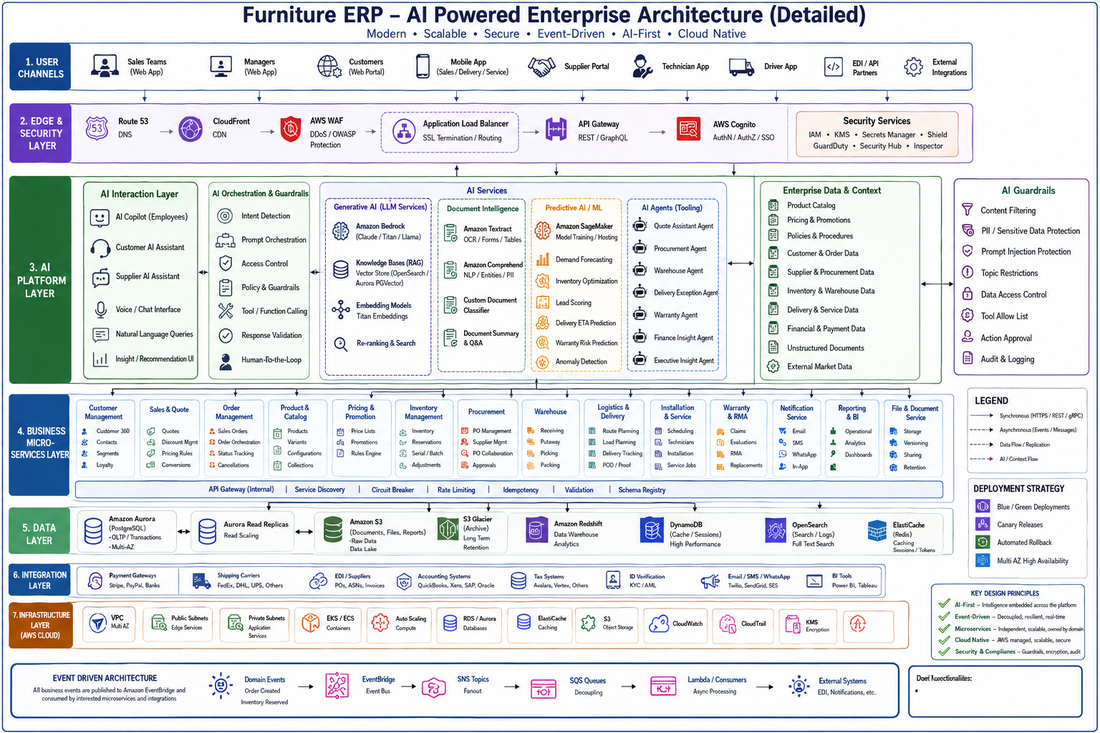
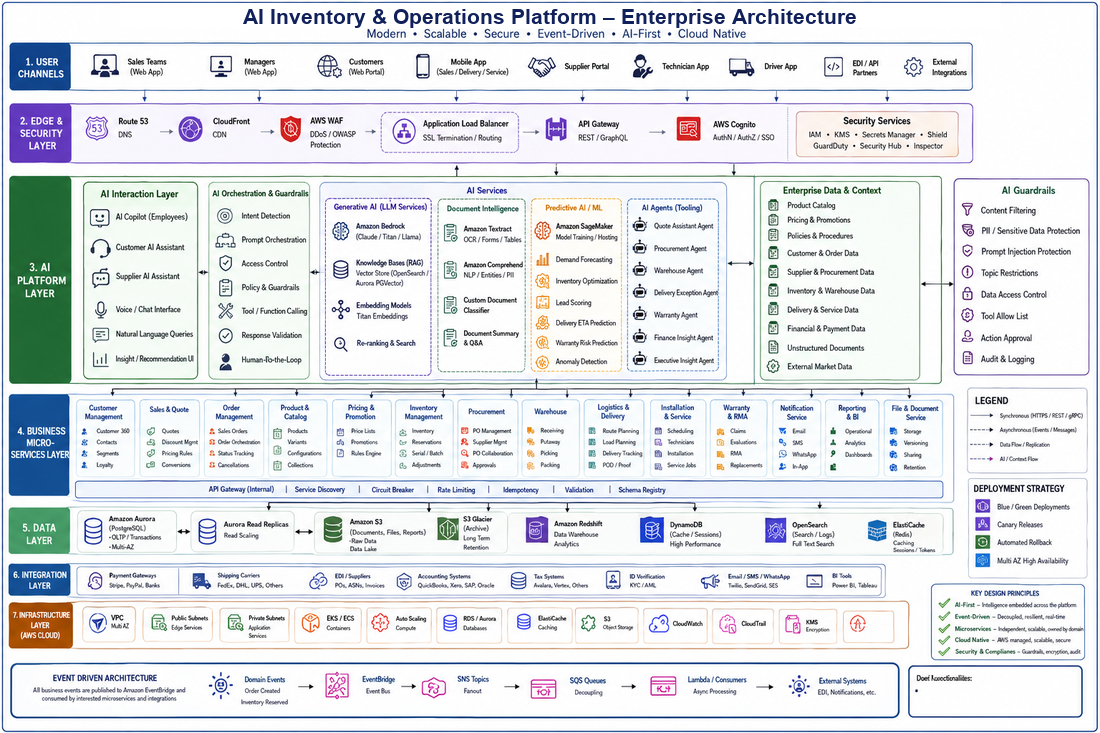
Static retitled architecture diagram with click-to-enlarge lightbox
- Diagram title now reads "AI Inventory & Operations Platform –
  Enterprise Architecture"; animated GIF removed
- Card images open full-size in an accessible dialog (Escape,
  backdrop click, focus restore)
- Protected images add casual-copy deterrents: context menu, drag,
  and selection disabled

Changed region(s): [[0.2164, 0.0, 0.8036, 0.03]]

diff --git a/src/components/ui/ImageLightbox.tsx b/src/components/ui/ImageLightbox.tsx
@@ -1,0 +1,88 @@
+"use client";
+
+import Image from "next/image";
+import { useRef, type MouseEvent } from "react";
+
+type ImageLightboxProps = {
+  src: string;
+  alt: string;
+  width: number;
+  height: number;
+  /**
+   * Deters casual copying: blocks the context menu, dragging, and
+   * selection. This is a deterrent only — nothing rendered in a
+   * browser can be fully protected from capture.
+   */
+  protect?: boolean;
+  thumbnailClassName?: string;
+};
+
+/** Thumbnail button that opens the image full-size in a modal dialog. */
+export function ImageLightbox({
+  src,
+  alt,
+  width,
+  height,
+  protect = false,
+  thumbnailClassName,
+}: ImageLightboxProps) {
+  const dialogRef = useRef<HTMLDialogElement>(null);
+
+  const blockContextMenu = protect
+    ? (event: MouseEvent) => event.preventDefault()
+    : undefined;
+
+  const closeOnBackdropClick = (event: MouseEvent<HTMLDialogElement>) => {
+    if (event.target === dialogRef.current) {
+      dialogRef.current?.close();
+    }
+  };
+
+  return (
+    <>
+      <button
+        type="button"
+        aria-label={`View full size: ${alt}`}
+        title="Click to enlarge"
+        onClick={() => dialogRef.current?.showModal()}
+        onContextMenu={blockContextMenu}
+        className="cursor-zoom-in select-none"
+      >
+        <Image
+          src={src}
+          alt={alt}
+          width={width}
+          height={height}
+          draggable={!protect}
+          className={thumbnailClassName}
+        />
+      </button>
+      <dialog
+        ref={dialogRef}
+        aria-label={alt}
+        onClick={closeOnBackdropClick}
+        onContextMenu={blockContextMenu}
+        className="m-auto max-h-[92vh] max-w-[95vw] rounded-xl bg-transparent p-0 backdrop:bg-black/80"
+      >
+        <div className="relative select-none">
+          <Image
+            src={src}
+            alt={alt}
+            width={width}
+            height={height}
+            draggable={!protect}
+            className="h-auto max-h-[92vh] w-auto rounded-xl"
+          />
+          <button
+            type="button"
+            aria-label="Close full-size view"
+            onClick={() => dialogRef.current?.close()}
+            className="absolute top-3 right-3 rounded-full bg-neutral-900/80 px-3 py-1 text-sm font-medium text-white hover:bg-neutral-900"
+          >
+            ✕
+          </button>
+        </div>
+      </dialog>
+    </>
+  );
+}

diff --git a/src/components/ProjectCard.tsx b/src/components/ProjectCard.tsx
@@ -1,6 +1,6 @@
-import Image from "next/image";
-import type { Project, ProjectImage } from "@/data/profile";
+import type { Project } from "@/data/profile";
 import { InlineLink } from "@/components/ui/InlineLink";
+import { ImageLightbox } from "@/components/ui/ImageLightbox";
 
 const CARD_IMAGE_CLASSES =
   "h-auto w-full border-b border-neutral-200 dark:border-neutral-800";
@@ -11,42 +11,6 @@ const BADGE_CLASSES =
 const STACK_ITEM_CLASSES =
   "rounded-md bg-neutral-100 px-2 py-0.5 text-xs text-neutral-600 dark:bg-neutral-800 dark:text-neutral-400";
 
-/**
- * Card header image. Animated images declare a staticSrc, which is
- * served to users who prefer reduced motion (WCAG 2.2.2).
- */
-function CardImage({ image }: { image: ProjectImage }) {
-  if (!image.staticSrc) {
-    return (
-      <Image
-        src={image.src}
-        alt={image.alt}
-        width={image.width}
-        height={image.height}
-        className={CARD_IMAGE_CLASSES}
-      />
-    );
-  }
-  return (
-    <>
-      <Image
-        src={image.src}
-        alt={image.alt}
-        width={image.width}
-        height={image.height}
-        className={`motion-reduce:hidden ${CARD_IMAGE_CLASSES}`}
-      />
-      <Image
-        src={image.staticSrc}
-        alt={image.alt}
-        width={image.width}
-        height={image.height}
-        className={`hidden motion-reduce:block ${CARD_IMAGE_CLASSES}`}
-      />
-    </>
-  );
-}
-
 export function ProjectCard({ project }: { project: Project }) {
   const headingId = `project-${project.slug}`;
 
@@ -55,7 +19,16 @@ export function ProjectCard({ project }: { project: Project }) {
       aria-labelledby={headingId}
       className="flex flex-col overflow-hidden rounded-xl border border-neutral-200 dark:border-neutral-800"
     >
-      {project.image && <CardImage image={project.image} />}
+      {project.image && (
+        <ImageLightbox
+          src={project.image.src}
+          alt={project.image.alt}
+          width={project.image.width}
+          height={project.image.height}
+          protect={project.image.protect}
+          thumbnailClassName={CARD_IMAGE_CLASSES}
+        />
+      )}
       <div className="flex flex-1 flex-col p-5">
         <div className="mb-2 flex items-center justify-between gap-2">
           <h3 id={headingId} className="font-semibold">

diff --git a/src/data/profile.ts b/src/data/profile.ts
@@ -14,11 +14,8 @@ export type ProjectImage = {
   alt: string;
   width: number;
   height: number;
-  /**
-   * Non-animated equivalent, shown when the user prefers reduced
-   * motion. Required whenever src is animated.
-   */
-  staticSrc?: string;
+  /** Apply casual-copy deterrents (no context menu, drag, or select). */
+  protect?: boolean;
 };
 
 export type Project = {
@@ -98,18 +95,13 @@ export const enterpriseProjects: readonly Project[] = [
       "Enterprise AI platform unifying inventory, supply chain, procurement, and customer operations with LLMs, RAG, AI agents, and semantic search.",
     impact: "Reduced manual reconciliation by 90%",
     stack: ["Python", "FastAPI", "React", "PostgreSQL", "Microservices"],
-    links: [
-      {
-        label: "View full architecture",
-        href: "/images/ai-operations-architecture.png",
-      },
-    ],
+    links: [],
     image: {
-      src: "/images/ai-operations-architecture.gif",
-      staticSrc: "/images/ai-operations-architecture.png",
-      alt: "Architecture diagram of the AI-powered ERP platform, highlighting each layer in turn: user channels, edge and security, AI platform, business microservices, data, integration, and cloud infrastructure, connected by an event-driven backbone",
-      width: 880,
-      height: 587,
+      src: "/images/ai-operations-architecture.png",
+      alt: "Architecture diagram of the AI inventory and operations platform: user channels, edge and security, AI platform, business microservices, data, integration, and cloud infrastructure layers, connected by an event-driven backbone",
+      width: 1100,
+      height: 733,
+      protect: true,
     },
   },
   {
